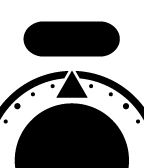
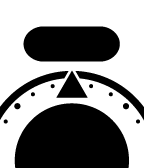
Fixed misaligned images

Changed region(s): [[0.1389, 0.119, 0.8333, 0.3869]]

diff --git a/Source-Code/NorthPole/src/NorthPole.c b/Source-Code/NorthPole/src/NorthPole.c
@@ -108,7 +108,7 @@ static void window_load(Window *window)
   GRect bounds = layer_get_bounds(window_layer);
 
     
-    text_layer = text_layer_create((GRect) { .origin = { 0, 5 }, .size = { bounds.size.w, 75 } });
+    text_layer = text_layer_create((GRect) { .origin = { 0, 14 }, .size = { bounds.size.w, 75 } });
     icon_layer = bitmap_layer_create(GRect(0, -16, 144, 168));
     compass_text_layer = text_layer_create((GRect) { .origin = { 0, 110 }, .size = { bounds.size.w, 80 } });
     
